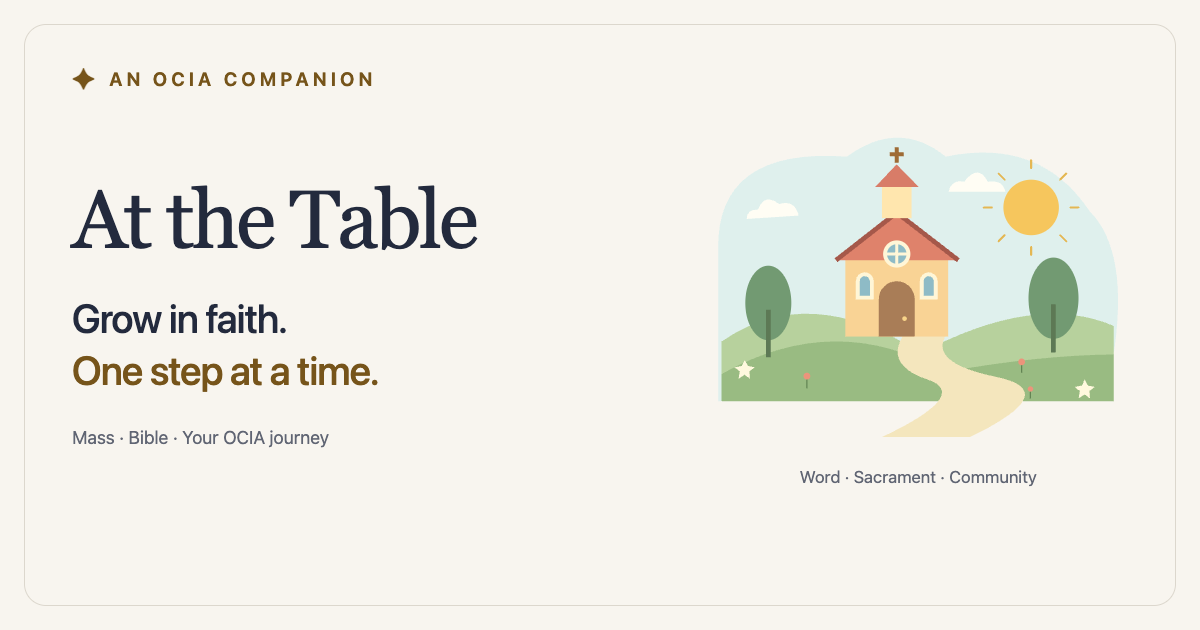
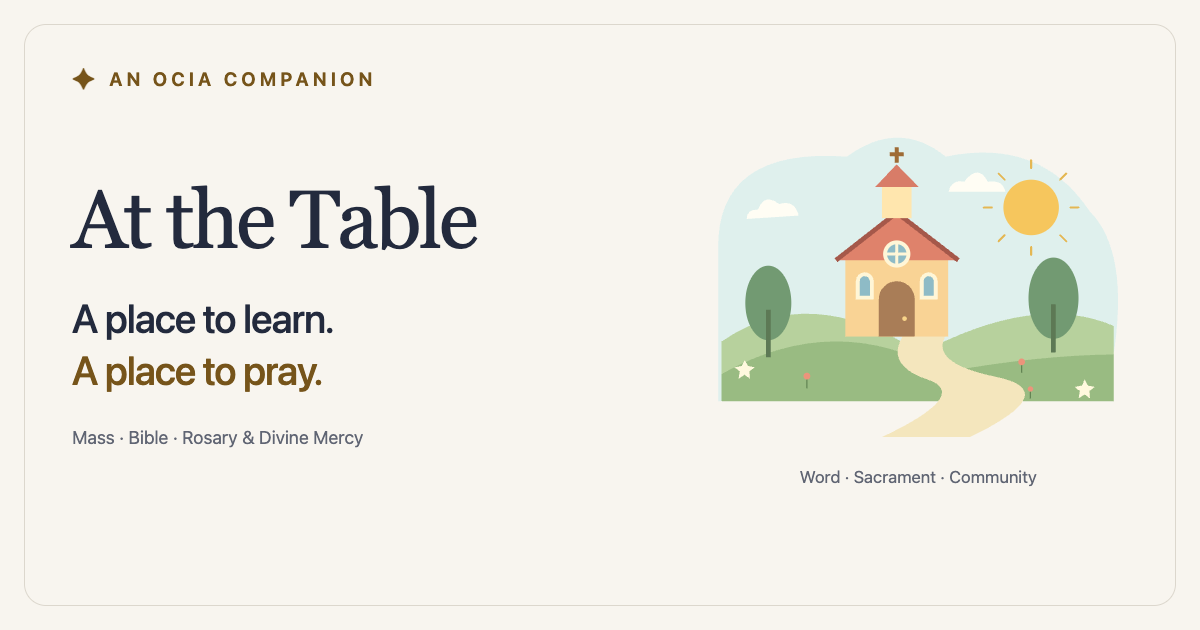
Unify OCIA learning and prayer with a new Learn and Pray landing

Changed region(s): [[0.0617, 0.573, 0.3083, 0.6333], [0.0617, 0.4825, 0.2775, 0.5429], [0.1542, 0.6635, 0.3083, 0.7238]]

diff --git a/apps/at-the-table/src/App.tsx b/apps/at-the-table/src/App.tsx
@@ -1,3 +1,6 @@
+import Prayer from './prayer/Prayer';
+import PrayerHub from './prayer/PrayerHub';
+import type {Devotion} from './prayer/Prayer';
 import BibleLesson from './bible/BibleLesson';
 import LessonHub from './bible/LessonHub';
 import {useEffect,useRef,useState} from 'react';
@@ -27,13 +30,14 @@ export default function App(){
  const [quiz,setQuiz]=useState(initial.quiz);const [answers,setAnswers]=useState<Record<number,number>>({});const [notice,setNotice]=useState('');
  const heading=useRef<HTMLHeadingElement>(null);const first=useRef(true);
  const unit=units[unitIndex];const lesson=unit.lessons[lessonIndex];
- useEffect(()=>{document.title=page==='mass'?`${quiz?t('Check your understanding'):lesson.title} · At the Table`:page==='bible'?'Books of the Bible · At the Table':page==='lessons'?'OCIA lessons · At the Table':'At the Table: An OCIA Companion';},[page,quiz,lesson.title,t]);
+ useEffect(()=>{document.title=page==='mass'?`${quiz?t('Check your understanding'):lesson.title} · At the Table`:page==='prayer'?'Prayer · At the Table':page==='bible'?'Books of the Bible · At the Table':page==='lessons'?'OCIA lessons · At the Table':'At the Table: An OCIA Companion';},[page,quiz,lesson.title,t]);
  useEffect(()=>{try{localStorage.setItem(key,JSON.stringify(saved));setStorageWarning(false)}catch{setStorageWarning(true)}},[saved]);
  useEffect(()=>{const handler=()=>{if(location.hash==='#main')return;const route=readRoute();setPage(route.page);setUnitIndex(route.unitIndex);setLessonIndex(route.lessonIndex);setQuiz(route.quiz);setAnswers({});};window.addEventListener('hashchange',handler);return()=>window.removeEventListener('hashchange',handler)},[]);
  useEffect(()=>{if(page==='mass'&&!quiz)setSaved(s=>s.lastLesson===lesson.id?s:{...s,lastLesson:lesson.id});},[page,quiz,lesson.id]);
  useEffect(()=>{window.speechSynthesis?.cancel();if(first.current){first.current=false;return;}window.scrollTo(0,0);heading.current?.focus({preventScroll:true});},[page,unitIndex,lessonIndex,quiz]);
  useEffect(()=>()=>window.speechSynthesis?.cancel(),[]);
  function go(next:Page){setPage(next);location.hash=next;setNotice('')}
+ function openPrayer(devotion:Devotion){setPage('prayer');location.hash=`prayer/${devotion}`;setNotice('')}
  function openLesson(u:number,i=0){setUnitIndex(u);setLessonIndex(i);setQuiz(false);setAnswers({});setPage('mass');location.hash=`mass/${units[u].lessons[i].id}`;setNotice('')}
  function next(){if(lessonIndex<unit.lessons.length-1)openLesson(unitIndex,lessonIndex+1);else {setQuiz(true);setAnswers({});location.hash=`check/${unit.id}`}}
  function toggleDone(){setSaved(s=>({...s,done:s.done.includes(lesson.id)?s.done.filter(id=>id!==lesson.id):[...s.done,lesson.id]}))}
@@ -41,14 +45,16 @@ export default function App(){
  const nextUnread=all.find(l=>!saved.done.includes(l.id));
  const resume=all.find(l=>l.id===saved.lastLesson)||nextUnread||all[0];
  const resumeUnit=units.findIndex(u=>u.lessons.includes(resume));
- return <><a className="skip" href="#main" onClick={e=>{e.preventDefault();document.getElementById('main')?.focus()}}>{t("Skip to content")}</a><header><button className="brand" onClick={()=>go('home')} aria-label={t("At the Table home")}><BrandMark/><span>At the Table<small>{t("AN OCIA COMPANION")}</small></span></button><nav aria-label={t("Main navigation")}>{(['home','lessons','map','journey'] as Page[]).map(p=><button key={p} aria-label={p==='journey'?t('OCIA & help'):undefined} aria-current={page===p||(page==='mass'&&p==='map')||(page==='bible'&&p==='lessons')?'page':undefined} onClick={()=>go(p)}>{({home:t('Home'),lessons:t('Lessons'),bible:t('Books of the Bible'),map:t('Mass map'),mass:t('Explore the Mass'),journey:t('OCIA & help'),resources:t('Resources'),visit:t('Your first Mass'),prayers:t('Prayer quick reference')})[p]}</button>)}</nav><label className="language-picker"><span className="sr-only">Language / Idioma</span><select aria-label="Language / Idioma" value={locale} onChange={e=>{setLocale(e.target.value as 'en'|'es'|'pl'|'tl');setQuery('')}}><option value="en" lang="en">English</option><option value="es" lang="es">Español</option><option value="pl" lang="pl">Polski</option><option value="tl" lang="tl">Tagalog</option></select></label><button className="global-theme-toggle" aria-label={theme==='light'?t('Use night prayer mode'):t('Use light reading mode')} onClick={toggleTheme}><Icon name={theme==='light'?'moon':'sun'}/><span>{theme==='light'?t('Night mode'):t('Light mode')}</span></button><span className="header-label">{t("FAITH SEEKING UNDERSTANDING")}</span></header>
+ return <><a className="skip" href="#main" onClick={e=>{e.preventDefault();document.getElementById('main')?.focus()}}>{t("Skip to content")}</a><header><button className="brand" onClick={()=>go('home')} aria-label={t("At the Table home")}><BrandMark/><span>At the Table<small>{t("AN OCIA COMPANION")}</small></span></button><nav aria-label={t("Main navigation")}>{(['home','lessons','prayer','map','journey'] as Page[]).map(p=><button key={p} aria-label={p==='journey'?t('OCIA & help'):undefined} aria-current={page===p||(page==='mass'&&p==='map')||(page==='bible'&&p==='lessons')?'page':undefined} onClick={()=>go(p)}>{({home:t('Home'),prayer:t('Pray'),lessons:t('Lessons'),bible:t('Books of the Bible'),map:t('Mass map'),mass:t('Explore the Mass'),journey:t('OCIA & help'),resources:t('Resources'),visit:t('Your first Mass'),prayers:t('Prayer quick reference')})[p]}</button>)}</nav><label className="language-picker"><span className="sr-only">Language / Idioma</span><select aria-label="Language / Idioma" value={locale} onChange={e=>{setLocale(e.target.value as 'en'|'es'|'pl'|'tl');setQuery('')}}><option value="en" lang="en">English</option><option value="es" lang="es">Español</option><option value="pl" lang="pl">Polski</option><option value="tl" lang="tl">Tagalog</option></select></label><button className="global-theme-toggle" aria-label={theme==='light'?t('Use night prayer mode'):t('Use light reading mode')} onClick={toggleTheme}><Icon name={theme==='light'?'moon':'sun'}/><span>{theme==='light'?t('Night mode'):t('Light mode')}</span></button><span className="header-label">{t("FAITH SEEKING UNDERSTANDING")}</span></header>
  <main id="main" tabIndex={-1}>{storageWarning&&<p className="warning">{t("Browser storage is unavailable. Your lesson progress will last for this visit only.")}</p>}
- {page==='home'&&<><section className="hero"><div className="hero-copy"><p className="eyebrow"><span/> {t("A GUIDE FOR ADULTS")}</p><h1 ref={heading} tabIndex={-1}>{t("Grow in faith,")}<br/><em>{t("one step at a time.")}</em></h1><p className="lead">{t("Explore the Mass, discover the Bible, and find your place in the OCIA journey. Choose a lesson and learn with your parish.")}</p><div className="actions"><button className="primary" onClick={()=>go('lessons')}>{t('Explore lessons')} <span>→</span></button><button className="text-button" onClick={()=>go('visit')}>{t('Your first Mass')} <span>→</span></button></div><div className="hero-meta"><span>{t("Mass · Bible · OCIA")}</span><i/><span>{t("Scripture & tradition")}</span><i/><span>{t("At your own pace")}</span></div></div><div className="hero-art"><div className="church-scene"><div className="church-sky" aria-hidden="true"/><img className="church-hero" src={theme==='dark'?churchNight:churchDay} alt={t("A welcoming church with a cross and a path to its doors")} width={1536} height={1024} fetchPriority="high"/></div><div className="art-caption"><span>{t("A PLACE TO ENCOUNTER CHRIST")}</span><span>{t("Word · Sacrament · Community")}</span></div><span className="vertical-label">{t("GATHERED IN FAITH. SENT IN LOVE.")}</span></div></section>
+ {page==='home'&&<><section className="hero ocia-landing"><div className="hero-copy"><p className="eyebrow"><span/> {t("A GUIDE FOR ADULTS")}</p><h1 ref={heading} tabIndex={-1}>{t("A place to learn.")}<br/><em>{t("A place to pray.")}</em></h1><p className="lead">{t("Your OCIA companion for understanding the faith and making room for prayer. Choose where you would like to begin.")}</p><div className="actions"><button className="primary" onClick={()=>go('lessons')}>{t('Explore lessons')} <span>→</span></button><button className="text-button" onClick={()=>openPrayer('rosary')}>{t('Enter prayer')} <span>→</span></button></div><div className="hero-meta"><span>{t("Mass · Bible · OCIA")}</span><i/><span>{t("Scripture & tradition")}</span><i/><span>{t("At your own pace")}</span></div></div><div className="hero-art"><div className="church-scene"><div className="church-sky" aria-hidden="true"/><img className="church-hero" src={theme==='dark'?churchNight:churchDay} alt={t("A welcoming church with a cross and a path to its doors")} width={1536} height={1024} fetchPriority="high"/></div><div className="art-caption"><span>{t("A PLACE TO ENCOUNTER CHRIST")}</span><span>{t("Word · Sacrament · Community")}</span></div><span className="vertical-label">{t("GATHERED IN FAITH. SENT IN LOVE.")}</span></div></section>
  <LessonHub onNavigate={go} compact/>
+ <PrayerHub onOpen={openPrayer}/>
  {saved.lastLesson&&<section className="resume-card"><div><p className="eyebrow">{t('YOUR LAST LESSON')}</p><h2>{resume.title}</h2><p>{units[resumeUnit].title} · {t('Lesson')} {units[resumeUnit].lessons.indexOf(resume)+1} {t('of')} {units[resumeUnit].lessons.length}</p></div><button className="primary" onClick={()=>openLesson(resumeUnit,units[resumeUnit].lessons.indexOf(resume))}>{t('Continue reading')} →</button></section>}
  <section className="home-shortcuts" aria-label={t('Quick guides')}><button onClick={()=>go('journey')}><span>{t('About OCIA')}</span><small>{t('Learn about becoming Catholic')}</small><Icon name="arrow"/></button><button onClick={()=>go('prayers')}><span>{t('Prayer quick reference')}</span><small>{t('Find familiar prayers and responses')}</small><Icon name="arrow"/></button></section>
  </>}
  {page==='lessons'&&<LessonHub onNavigate={go} headingRef={heading}/>}
+ {page==='prayer'&&<Prayer headingRef={heading}/>}
  {page==='bible'&&<BibleLesson headingRef={heading}/>}
  {page==='map'&&<section className="page mass-map"><div className="page-heading"><p className="eyebrow">{t("YOUR GUIDE TO THE MASS")}</p><h1 ref={heading} tabIndex={-1}>{t("Four parts. One celebration.")}</h1><p>{t("Choose a part to explore. Each lesson explains what happens, what it means, and how to participate.")}</p></div><div className="map-progress"><span>{saved.done.length} {t("of")} {all.length} {t("lessons explored")}</span><progress value={saved.done.length} max={all.length} aria-label={t("Lessons reviewed")}/></div><div className="map-search"><label htmlFor="search">{t("Find a lesson")}</label><input id="search" type="search" value={query} onChange={e=>setQuery(e.target.value)} placeholder={t('Try “Communion”')}/>{query.trim()&&<div className="search-results"><p role="status">{filtered.length} {t("results")}</p>{filtered.map(({l,ui,li,unit})=><button key={l.id} onClick={()=>{openLesson(ui,li);setQuery('')}}><span>{l.title}</span><small>{unit}</small><Icon name="arrow"/></button>)}{!filtered.length&&<><p>{t('Try a shorter phrase, such as Amen, Communion, or Gloria.')}</p><button onClick={()=>setQuery('')}>{t('Clear search')}</button></>}</div>}</div><div className="map-grid">{units.map((u,i)=><button className={`map-card map-${i}`} key={u.id} onClick={()=>openLesson(i)}><span className="map-number">{i+1}</span><Illustration kind={(['church','bible','chalice','sun'] as Art[])[i]} alt={[t('A welcoming church'),t('An open Bible'),t('A chalice and bread'),t('Sunlight shining outward')][i]}/><span className="eyebrow">{u.verb}</span><h2>{u.title}</h2><p>{[t('We gather, pray, and prepare our hearts.'),t('We listen to Scripture and respond in faith.'),t('We give thanks and encounter Christ in the Eucharist.'),t('We go out to live the Gospel.')][i]}</p><span className="map-bottom">{locale==='pl'?`Liczba lekcji: ${u.lessons.length}`:<>{u.lessons.length} {t("lessons")}</>} <span className="section-progress">{saved.done.filter(id=>u.lessons.some(l=>l.id===id)).length}/{u.lessons.length} {t('explored')}</span><strong>{t("Explore →")}</strong></span></button>)}</div><p className="map-hint">{t("No rush. You can revisit any lesson, anytime.")}</p></section>}
  {page==='mass'&&<section className="study page"><button className="text-button back-map" onClick={()=>go('map')}>{t("← Back to Mass map")}</button>{quiz&&<div className="page-heading"><p className="eyebrow">{t("PART")} {unitIndex+1} {t("OF 4 ·")} {unit.verb}</p><h1 ref={heading} tabIndex={-1}>{quiz?t('Check your understanding'):unit.title}</h1><p>{quiz?t('Take your time. You can try again.'):`${lessonIndex+1} / ${unit.lessons.length}`}</p></div>}<div className="study-layout">

diff --git a/apps/at-the-table/src/prayer/prayer.css b/apps/at-the-table/src/prayer/prayer.css
@@ -1,0 +1,8 @@
+body.themed-app .ocia-landing{min-height:0;padding-top:40px;padding-bottom:35px;gap:35px}.ocia-landing .hero-copy h1{font-size:clamp(35px,4vw,52px)}.ocia-landing .hero-art{max-width:340px}.ocia-landing .church-scene{max-height:260px;overflow:hidden;border-radius:22px}.ocia-landing .hero-meta{margin-top:18px}.ocia-landing .lead{font-size:15px}.lesson-hub.compact{padding-bottom:35px}.lesson-hub.compact .lesson-hub-heading{padding-top:15px;border-top:1px solid var(--read-line)}.lesson-hub.compact .lesson-hub-card .illustration{height:95px}.lesson-hub.compact .lesson-hub-card{padding:24px}.lesson-hub.compact .lesson-hub-card h2{font-size:25px}.lesson-hub.compact .lesson-hub-card p{margin-bottom:15px}
+.prayer-hub{max-width:1200px;margin:0 auto 45px;padding:32px 6% 38px;background:var(--read-wash);border-top:1px solid var(--read-sand-line);border-bottom:1px solid var(--read-sand-line)}.prayer-hub-heading h2{font:32px/1.3 var(--read-serif);color:var(--read-ink);margin:0}.prayer-hub-heading p:not(.eyebrow){font-size:14px;color:var(--read-muted);margin:10px 0 25px}.prayer-hub-heading .eyebrow{color:var(--read-gold)}.prayer-hub-grid{display:grid;grid-template-columns:1fr 1fr;gap:20px}.prayer-hub-card{display:grid;grid-template-columns:95px 1fr;align-items:center;gap:20px;text-align:left;border:1px solid var(--read-line);border-radius:16px;background:var(--read-surface);color:var(--read-ink);padding:24px;min-width:0}.prayer-hub-card:hover{border-color:var(--read-gold)}.prayer-hub-card .illustration{width:95px;height:120px}.prayer-hub-card h3{font:26px/1.3 var(--read-serif);margin:0}.prayer-hub-card .eyebrow{font-size:9px;margin-bottom:9px}.prayer-hub-card p:not(.eyebrow){font-size:13px;line-height:1.8;color:var(--read-muted);margin:12px 0}.prayer-hub-card strong{font-size:12px;color:var(--read-gold)}
+.prayer-space{max-width:1600px;margin:auto;padding:18px 24px 0;display:flex;flex-direction:column;min-width:0;gap:12px}.prayer-space-heading{display:flex;align-items:center;justify-content:space-between;gap:20px}.prayer-space-heading .eyebrow{font-size:9px;margin:0 0 4px;color:var(--read-gold)}.prayer-space-heading h1{font:30px/1.2 var(--read-serif);color:var(--read-ink);margin:0}.prayer-fullscreen-link{font-size:11px;color:var(--read-gold);white-space:nowrap}.prayer-language-note{font-size:11px;color:var(--read-muted);margin:0}body.themed-app .prayer-tabs{display:flex;flex-wrap:wrap;gap:8px;margin:0}body.themed-app .prayer-tabs button{background:var(--read-soft);color:var(--read-ink);border:1px solid var(--read-line);border-radius:10px;min-height:44px;padding:10px 20px;font-size:12px}body.themed-app .prayer-tabs button[aria-current]{background:var(--read-action);color:var(--read-on-action)}.prayer-frame{display:block;flex:1;width:100%;min-height:0;border:1px solid var(--read-line);border-radius:14px;background:#17130f}
+@media(max-width:850px){.prayer-hub-grid{grid-template-columns:1fr}.ocia-landing .hero-art{max-width:260px}.prayer-space{padding:12px 16px 0}.prayer-space-heading h1{font-size:25px}}
+@media(max-width:600px){body.themed-app .ocia-landing{padding-top:28px;padding-bottom:24px;gap:15px}.ocia-landing .hero-art{display:none}.ocia-landing .hero-copy h1{font-size:35px;margin-bottom:18px}.ocia-landing .hero-meta{flex-wrap:wrap}.prayer-hub{padding:25px 6%}.prayer-hub-card{grid-template-columns:65px 1fr;padding:18px;gap:15px}.prayer-hub-card .illustration{width:65px;height:85px}.prayer-hub-card h3{font-size:24px}.prayer-hub-heading h2{font-size:28px}.prayer-space{padding:10px 10px 0;gap:8px}.prayer-space-heading{gap:8px}.prayer-space-heading h1{font-size:22px}.prayer-space-heading .eyebrow{font-size:7px;letter-spacing:1px}.prayer-fullscreen-link{font-size:9px}body.themed-app .prayer-tabs{gap:5px}body.themed-app .prayer-tabs button{padding:8px 10px;font-size:10px;flex:1}.prayer-frame{border-radius:10px}body.themed-app #root>header>nav{flex-wrap:wrap;gap:2px}body.themed-app #root>header>nav button{padding:10px 8px;font-size:10px}}
+
+body.themed-app .prayer-tabs{order:0;width:100%;flex-shrink:0;justify-content:flex-start}.prayer-space-heading{flex-shrink:0}.prayer-frame{min-height:450px}
+@media(max-width:600px){body.themed-app #root>header>nav button{font-size:10px;padding:10px 6px}.prayer-space-heading h1{font-size:21px}.prayer-space-heading .eyebrow{max-width:170px}.prayer-space-heading .prayer-fullscreen-link{white-space:normal;max-width:70px;text-align:right}}

diff --git a/apps/at-the-table/src/SiteFooter.tsx b/apps/at-the-table/src/SiteFooter.tsx
@@ -4,7 +4,7 @@ import type {Page} from './study';
 export default function SiteFooter({onNavigate}:{onNavigate:(page:Page)=>void}){
  const {t}=useLanguage();
  return <footer className="site-footer"><svg className="footer-flourish" viewBox="0 0 1200 80" preserveAspectRatio="none" aria-hidden="true"><path d="M0 65Q180 20 360 55T720 52T1200 65" fill="none" stroke="currentColor" strokeWidth="1"/><path d="M0 75Q230 38 460 67T920 65T1200 74" fill="none" stroke="currentColor" strokeWidth="1"/><path d="M600 10v25m-9-17h18M570 48h60m-52 0v13m44-13v13" fill="none" stroke="currentColor" strokeWidth="2" strokeLinecap="round"/><path d="M545 50q-18-20-35-10m27 2q-4-17-16-21m134 29q18-20 35-10m-27 2q4-17 16-21" fill="none" stroke="currentColor" strokeWidth="1.5" strokeLinecap="round"/></svg>
- <div className="footer-content"><div className="footer-identity"><div className="footer-brand"><BrandMark/><strong>At the Table</strong></div><p>{t('A space to grow in faith, made for adults.')}</p><span>{t('Learn with your parish. Explore at your own pace.')}</span></div><nav className="footer-links" aria-label={t('Explore the Mass')}><h2>{t('Explore')}</h2><a href="#lessons">{t('All lessons')}</a><a href="#bible">{t('Books of the Bible')}</a><a href="#map">{t('Mass map')}</a><a href="#visit">{t('Your first Mass')}</a><a href="#prayers">{t('Prayer quick reference')}</a></nav><nav className="footer-links" aria-label={t('Guidance and resources')}><h2>{t('Keep learning')}</h2><a href="#journey">{t('About OCIA')}</a><button onClick={()=>onNavigate('resources')}>{t('Sources & guidance')} →</button><a href="../">{t('Learning with children? Explore Mass Adventure')} ↗</a><a href="../rosary/">{t('Pray the Rosary & Divine Mercy Chaplet')} ↗</a></nav></div>
+ <div className="footer-content"><div className="footer-identity"><div className="footer-brand"><BrandMark/><strong>At the Table</strong></div><p>{t('A space to grow in faith, made for adults.')}</p><span>{t('Learn with your parish. Explore at your own pace.')}</span></div><nav className="footer-links" aria-label={t('Explore the Mass')}><h2>{t('Explore')}</h2><a href="#lessons">{t('All lessons')}</a><a href="#bible">{t('Books of the Bible')}</a><a href="#prayer">{t('Guided prayer')}</a><a href="#map">{t('Mass map')}</a><a href="#visit">{t('Your first Mass')}</a><a href="#prayers">{t('Prayer quick reference')}</a></nav><nav className="footer-links" aria-label={t('Guidance and resources')}><h2>{t('Keep learning')}</h2><a href="#journey">{t('About OCIA')}</a><button onClick={()=>onNavigate('resources')}>{t('Sources & guidance')} →</button><a href="../">{t('Learning with children? Explore Mass Adventure')} ↗</a><a href="#prayer/rosary">{t('Pray the Rosary & Divine Mercy Chaplet')} →</a></nav></div>
  <div className="footer-bottom"><span className="creator-credit">{t('Created by Kenny & Edith Santiago')}</span><p>{t('No account required. Lesson progress stays on this browser.')}</p></div>
  </footer>;
 }

diff --git a/apps/rosary/src/styles.css b/apps/rosary/src/styles.css
@@ -181,3 +181,10 @@
 @media(max-width:1100px){.rosary-footer-body{grid-template-columns:1fr 1fr}.rosary-footer-identity{grid-column:1/-1}.rosary-footer-identity>span br{display:none}}
 @media(max-width:850px){.rosary-footer{margin:28px 24px 20px;padding:45px 24px 0}.rosary-footer-body{gap:24px}}
 @media(max-width:600px){.rosary-footer{margin:25px 18px 18px;padding:42px 22px 0}.rosary-footer-body{grid-template-columns:1fr;gap:26px;padding-bottom:26px}.rosary-footer-identity{grid-column:auto}.rosary-footer-brand strong{font-size:31px}.rosary-footer-bottom{display:block;font-size:10px}.rosary-footer-bottom p{margin-top:7px}.rosary-footer-prayers{display:grid;grid-template-columns:1fr 1fr;column-gap:16px}.rosary-footer-prayers h2{grid-column:1/-1}.rosary-footer-prayers a{font-size:11px}.rosary-footer-flourish{height:44px}}
+
+/* At the Table provides the shared navigation and footer in the integrated prayer view. */
+.embedded.app-shell{display:block;min-height:100dvh}.embedded .sidebar,.embedded .topbar,.embedded .rosary-footer{display:none}.embedded .page-content{padding:22px 24px}.embedded.meditating .session-content{height:100dvh;padding:14px 18px}.embedded .page-heading{margin-bottom:20px}.embedded .page-heading h1{font-size:32px}.embedded .setup-grid .sacred-media img,.embedded .setup-grid .sacred-media video{height:clamp(220px,45dvh,400px)}
+@media(max-width:850px){.embedded.meditating .contents{top:12px}.embedded.meditating .session-content{height:100dvh;padding:10px 12px}.embedded .page-content{padding:20px 16px}.embedded .page-heading h1{font-size:28px}}
+@media(max-height:600px) and (max-width:850px){.embedded.meditating .session-heading{min-height:30px}.embedded.meditating .session-heading h1{font-size:18px}.embedded.meditating .bead-panel{padding:4px 6px}.embedded.meditating .bead-panel .eyebrow{font-size:7px!important}.embedded.meditating .beads{min-height:28px}.embedded.meditating .beads i{width:22px;height:22px;flex-basis:22px}.embedded.meditating .beads i.large{width:26px;height:26px;flex-basis:26px}.embedded.meditating .reader{padding:10px 14px}.embedded.meditating .reader h2{font-size:18px}.embedded.meditating .reading-panel>.preferences{padding-bottom:5px}.embedded.meditating .audio-controls{padding:6px 10px}}
+
+@media(max-height:600px) and (max-width:850px){.embedded.meditating .session-heading{display:grid;grid-template-columns:minmax(0,1fr) auto;gap:8px;padding-right:138px;min-height:38px}.embedded.meditating .session-heading h1{display:none}.embedded.meditating .session-heading .secondary{margin-right:0;padding:7px;font-size:9px;min-height:32px}.embedded.meditating .session-heading .eyebrow{font-size:7px!important}.embedded.meditating .contents{width:130px;top:10px;right:12px}.embedded.meditating .contents summary{padding:10px;font-size:10px}.embedded.meditating .prayer-progress>div{font-size:8px}.embedded.meditating .meditation-grid{grid-template-rows:minmax(0,1fr) minmax(0,1fr)}}

diff --git a/apps/at-the-table/index.html b/apps/at-the-table/index.html
@@ -8,23 +8,23 @@
   <link rel="icon" type="image/svg+xml" href="%BASE_URL%favicon.svg" sizes="any"/>
   <link rel="apple-touch-icon" href="%BASE_URL%apple-touch-icon.png" sizes="180x180"/>
   <title>At the Table: An OCIA Companion</title>
-  <meta name="description" content="Grow in faith, one step at a time. Explore the Mass, all 73 books of the Catholic Bible, interactive activities, and your OCIA journey."/>
+  <meta name="description" content="Learn and pray with an OCIA companion: Mass lessons, all 73 books of the Catholic Bible, the Rosary, and Divine Mercy."/>
   <link rel="canonical" href="https://ksantiagobah.github.io/mass-adventure/at-the-table/"/>
   <meta property="og:type" content="website"/>
   <meta property="og:site_name" content="At the Table"/>
   <meta property="og:title" content="At the Table: An OCIA Companion"/>
-  <meta property="og:description" content="Explore the Mass, the Catholic Bible, and your OCIA journey with illustrated lessons and interactive activities."/>
+  <meta property="og:description" content="A place to learn. A place to pray. Explore the Mass, Bible, Rosary, Divine Mercy, and your OCIA journey."/>
   <meta property="og:url" content="https://ksantiagobah.github.io/mass-adventure/at-the-table/"/>
   <meta property="og:image" content="https://ksantiagobah.github.io/mass-adventure/at-the-table/share-card.png"/>
   <meta property="og:image:type" content="image/png"/>
   <meta property="og:image:width" content="1200"/>
   <meta property="og:image:height" content="630"/>
-  <meta property="og:image:alt" content="At the Table: Grow in faith, one step at a time, beside an illustrated church."/>
+  <meta property="og:image:alt" content="At the Table: A place to learn and pray, beside an illustrated church."/>
   <meta name="twitter:card" content="summary_large_image"/>
   <meta name="twitter:title" content="At the Table: An OCIA Companion"/>
-  <meta name="twitter:description" content="Explore the Mass, the Catholic Bible, and your OCIA journey."/>
+  <meta name="twitter:description" content="A place to learn. A place to pray. Mass, Bible, Rosary, Divine Mercy, and OCIA."/>
   <meta name="twitter:image" content="https://ksantiagobah.github.io/mass-adventure/at-the-table/share-card.png"/>
-  <meta name="twitter:image:alt" content="At the Table: Grow in faith, one step at a time, beside an illustrated church."/>
+  <meta name="twitter:image:alt" content="At the Table: A place to learn and pray, beside an illustrated church."/>
 </head>
 <body><div id="root"></div><script type="module" src="/src/main.tsx"></script></body>
 </html>

diff --git a/apps/at-the-table/src/prayer/Prayer.tsx b/apps/at-the-table/src/prayer/Prayer.tsx
@@ -1,0 +1,14 @@
+import {useEffect,useState} from 'react';
+import type {RefObject} from 'react';
+import {useLanguage} from '../Language';
+import './prayer.css';
+export type Devotion='rosary'|'chaplet'|'mysteries'|'prayers';
+const destinations=[{id:'rosary',label:'The Rosary'},{id:'chaplet',label:'Divine Mercy'},{id:'mysteries',label:'Mysteries'},{id:'prayers',label:'Prayer library'}] as const;
+function devotionFromHash():Devotion{return destinations.find(d=>d.id===location.hash.split('/')[1])?.id??'rosary'}
+export default function Prayer({headingRef}:{headingRef:RefObject<HTMLHeadingElement|null>}){
+ const {t,locale}=useLanguage();const [devotion,setDevotion]=useState(devotionFromHash);const [headerHeight,setHeaderHeight]=useState(100);
+ useEffect(()=>{const onHash=()=>setDevotion(devotionFromHash());window.addEventListener('hashchange',onHash);const header=document.querySelector('#root>header');const measure=()=>setHeaderHeight(header?.getBoundingClientRect().height??100);measure();const observer=new ResizeObserver(measure);if(header)observer.observe(header);return()=>{window.removeEventListener('hashchange',onHash);observer.disconnect()}},[]);
+ return <section className="prayer-space" style={{height:`max(650px, calc(100dvh - ${headerHeight}px - 16px))`}}><div className="prayer-space-heading"><div><p className="eyebrow">{t('PRAY · A QUIET MOMENT WITH GOD')}</p><h1 ref={headingRef} tabIndex={-1}>{t('Make room for prayer.')}</h1></div><a className="prayer-fullscreen-link" href={`../rosary/#${devotion}`} target="_blank" rel="noreferrer">{t('Open full screen')} ↗</a></div>{locale!=='en'&&<p className="prayer-language-note">{t('Guided prayers and narration are currently in English.')}</p>}<nav className="prayer-tabs" aria-label={t('Choose a prayer')}>
+ {destinations.map(d=><button key={d.id} aria-current={devotion===d.id?'page':undefined} onClick={()=>{setDevotion(d.id);location.hash=`prayer/${d.id}`}}>{t(d.label)}</button>)}
+ </nav><iframe key={devotion} className="prayer-frame" src={`../rosary/?embedded=1#${devotion}`} title={t('Guided prayer')+': '+t(destinations.find(d=>d.id===devotion)!.label)} allow="fullscreen"/></section>
+}

diff --git a/apps/at-the-table/src/bible/LessonHub.tsx b/apps/at-the-table/src/bible/LessonHub.tsx
@@ -6,7 +6,7 @@ export default function LessonHub({onNavigate,headingRef,compact=false}:{onNavig
  const {t}=useLanguage();
  const lessons=[{page:'map' as Page,title:t('The Catholic Mass'),detail:t('Understand the celebration, its prayers, and your part in it.'),meta:t('28 guided lessons'),art:'church' as const,label:t('Explore the Mass')},{page:'bible' as Page,title:t('Books of the Bible'),detail:t('Explore Scripture’s library through book discoveries and hands-on activities.'),meta:t('73 books · 4 activities'),art:'bible' as const,label:t('Explore the Bible')},{page:'journey' as Page,title:t('The OCIA journey'),detail:t('Learn about Christian initiation and the path you share with your parish.'),meta:t('Guidance & common questions'),art:'sun' as const,label:t('Explore OCIA')}];
  return <section className={`lesson-hub ${compact?'compact':'page'}`}>
-  {compact?<div className="lesson-hub-heading"><p className="eyebrow">{t('LEARN WITH YOUR PARISH')}</p><h2>{t('Choose a lesson. Follow your curiosity.')}</h2></div>:<div className="page-heading"><p className="eyebrow">{t('YOUR OCIA LEARNING SPACE')}</p><h1 ref={headingRef} tabIndex={-1}>{t('Faith, one lesson at a time.')}</h1><p>{t('Choose a subject to explore. Each has its own page, and you can return whenever you like.')}</p></div>}
+  {compact?<div className="lesson-hub-heading"><p className="eyebrow">{t('LEARN · UNDERSTAND AND EXPLORE')}</p><h2>{t('Choose your learning path.')}</h2></div>:<div className="page-heading"><p className="eyebrow">{t('YOUR OCIA LEARNING SPACE')}</p><h1 ref={headingRef} tabIndex={-1}>{t('Faith, one lesson at a time.')}</h1><p>{t('Choose a subject to explore. Each has its own page, and you can return whenever you like.')}</p></div>}
   <div className="lesson-hub-grid">{lessons.map((lesson,index)=><button className="lesson-hub-card" key={lesson.page} onClick={()=>onNavigate(lesson.page)}><span className="lesson-hub-number">0{index+1}</span><Illustration kind={lesson.art} alt={lesson.title}/><span className="eyebrow">{lesson.meta}</span><h2>{lesson.title}</h2><p>{lesson.detail}</p><strong>{lesson.label} →</strong></button>)}</div>
  </section>;
 }

diff --git a/apps/rosary/src/App.tsx b/apps/rosary/src/App.tsx
@@ -16,6 +16,7 @@ import { Player } from './Player';
 import { Media } from './Media';
 import { readSaved, save } from './storage';
 
+const embedded = new URLSearchParams(location.search).get('embedded') === '1';
 type Page = 'today' | 'rosary' | 'chaplet' | 'mysteries' | 'prayers';
 const pages: { id: Page; label: string; icon: string }[] = [{ id: 'today', label: 'Today', icon: '☀' }, { id: 'rosary', label: 'The Rosary', icon: '◎' }, { id: 'chaplet', label: 'Divine Mercy', icon: '✧' }, { id: 'mysteries', label: 'Mysteries', icon: '▧' }, { id: 'prayers', label: 'Prayers', icon: '✝' }];
 const pageFromHash = (): Page => pages.find(p => p.id === location.hash.slice(1).split('/')[0])?.id ?? 'today';
@@ -76,7 +77,7 @@ export default function App() {
     const recording = recordingForVoice(id, voice);
     return <div className="reading-panel">{settings}<Player key={`${id}:${voice}`} activeKey={`${id}:${voice}`} recording={recording} timing={timingForNarration(id, recording?.transcript, voice)} title={title} text={text} auto={false} playing={playing} setPlaying={setPlaying} fontSize={fontSize}/></div>;
   }
-  return <div className={`app-shell ${(inSession && (page === 'rosary' || page === 'chaplet')) ? 'meditating' : ''}`}>
+  return <div className={`app-shell ${embedded ? 'embedded' : ''} ${(inSession && (page === 'rosary' || page === 'chaplet')) ? 'meditating' : ''}`}>
     <a href="#main" className="skip-link">Skip to content</a>
     <aside className="sidebar"><a className="brand" href="#today" onClick={e => { e.preventDefault(); navigate('today'); }}><span className="brand-mark">✝</span><span>Rosary<small>A quiet space for prayer</small></span></a>
       <nav aria-label="Main navigation">{pages.map(p => <a key={p.id} href={`#${p.id}`} aria-current={page === p.id ? 'page' : undefined} onClick={e => { e.preventDefault(); navigate(p.id); }}><span aria-hidden="true">{p.icon}</span>{p.label}</a>)}</nav>

diff --git a/apps/at-the-table/src/study.ts b/apps/at-the-table/src/study.ts
@@ -5,14 +5,14 @@ import {polishSpoken} from './polishSpoken';
 import {tagalogSpoken} from './tagalogSpoken';
 import {prayerScript} from './reading';
 import type {Locale} from './Language';
-export type Page='lessons'|'bible'|'home'|'map'|'mass'|'journey'|'resources'|'visit'|'prayers';
+export type Page='prayer'|'lessons'|'bible'|'home'|'map'|'mass'|'journey'|'resources'|'visit'|'prayers';
 export type Route={page:Page;unitIndex:number;lessonIndex:number;quiz:boolean};
 export function readRoute(hash=location.hash):Route {
  const [page,id]=hash.slice(1).split('/');
  const base:Route={page:'home',unitIndex:0,lessonIndex:0,quiz:false};
  if(page==='mass'&&id){for(const [ui,unit] of units.entries()){const li=unit.lessons.findIndex(l=>l.id===id);if(li>=0)return {...base,page:'mass',unitIndex:ui,lessonIndex:li};}return {...base,page:'map'};}
  if(page==='check'){const ui=units.findIndex(u=>u.id===id);return ui>=0?{...base,page:'mass',unitIndex:ui,lessonIndex:units[ui].lessons.length-1,quiz:true}:{...base,page:'map'};}
- return ['home','lessons','bible','map','mass','journey','resources','visit','prayers'].includes(page)?{...base,page:page as Page}:base;
+ return ['home','prayer','lessons','bible','map','mass','journey','resources','visit','prayers'].includes(page)?{...base,page:page as Page}:base;
 }
 export function wordsFor(locale:Locale,id:string){return prayerScript(({en:spoken,es:spanishSpoken,pl:polishSpoken,tl:tagalogSpoken})[locale][id]);}
 const aliases:Record<string,string>={

diff --git a/apps/at-the-table/src/prayer/PrayerHub.tsx b/apps/at-the-table/src/prayer/PrayerHub.tsx
@@ -1,0 +1,7 @@
+import {useLanguage} from '../Language';
+import {Illustration} from '../Illustration';
+import type {Devotion} from './Prayer';
+import './prayer.css';
+export default function PrayerHub({onOpen}:{onOpen:(devotion:Devotion)=>void}){
+ const {t}=useLanguage();return <section className="prayer-hub"><div className="prayer-hub-heading"><div><p className="eyebrow">{t('PRAY · LET FAITH BECOME A MOMENT OF STILLNESS')}</p><h2>{t('A quiet space for prayer.')}</h2><p>{t('Pray with sacred video, spoken words, and beads that guide your place.')}</p></div></div><div className="prayer-hub-grid"><button className="prayer-hub-card" onClick={()=>onOpen('rosary')}><Illustration kind="hands" alt={t('Hands joined in prayer')}/><div><p className="eyebrow">{t('ROSARY · FOUR SETS OF MYSTERIES')}</p><h3>{t('Walk with Mary.')}</h3><p>{t('Meditate on the life of Christ, one prayer and one bead at a time.')}</p><strong>{t('Pray the Rosary')} →</strong></div></button><button className="prayer-hub-card" onClick={()=>onOpen('chaplet')}><Illustration kind="heart" alt={t('A heart as a sign of mercy')}/><div><p className="eyebrow">{t('DIVINE MERCY CHAPLET')}</p><h3>{t('Jesus, I trust in You.')}</h3><p>{t('Bring your intentions into a guided prayer of trust in God’s mercy.')}</p><strong>{t('Pray Divine Mercy')} →</strong></div></button></div></section>
+}

diff --git a/apps/at-the-table/README.md b/apps/at-the-table/README.md
@@ -1,6 +1,6 @@
 # At the Table: An OCIA Companion
 
-An adult OCIA learning hub with separate pages for the Catholic Mass, the Books of the Bible, and the OCIA journey. It shares this repository and deployment with Mass Adventure and Rosary.
+An adult OCIA companion with separate Learn and Pray areas. Learn contains the Catholic Mass, the Books of the Bible, and the OCIA journey; Pray contains the integrated Rosary, Divine Mercy Chaplet, mysteries, and prayer library. It shares this repository and deployment with Mass Adventure and Rosary.
 
 ## Run
 
@@ -131,3 +131,9 @@ Explored cards and four activity badges are stored locally under `ocia-bible-dis
 The user’s photographed book lists and summary handouts inspired the shelf structure and summary themes. Summaries are original adaptations, with Catholic additions and corrections rather than literal transcriptions. The handouts list 39 Old Testament books; this lesson includes the seven additional books in the Catholic canon and notes the fuller Esther and Daniel texts. Sources: [Catechism §§120–130](https://www.vatican.va/content/catechism/en/part_one/section_one/chapter_two/article_3/iv_the_canon_of_scripture.html) and [USCCB book introductions](https://www.usccb.org/offices/new-american-bible/books-bible). Book-family labels are teaching aids, not a chronological ordering or a judgment of importance.
 
 Run `npm run test:bible` against the combined preview (`TEST_URL` may override the default port 5190). It covers all 73 summaries, the canon, navigation, deep links, four games, saved progress, storage failures, phone/tablet/desktop layouts, light/dark themes, Chromium/WebKit, and automated WCAG checks.
+
+## Unified Learn and Pray landing page
+
+The homepage separates learning paths from prayer devotions. `#prayer/rosary`, `#prayer/chaplet`, `#prayer/mysteries`, and `#prayer/prayers` open the prayer experience within At the Table. The shared navigation remains available; a full-screen link optionally opens the standalone prayer app. The existing Rosary app is embedded from the same origin with `?embedded=1`, hiding its duplicate sidebar/footer while preserving its videos, text, beads, male/female narration, speed controls, and saved position. Changing devotion or leaving the prayer section removes the old frame and its media. Prayer progress uses the same existing `rosary-web:*` storage as the standalone app. There is no copied prayer content or additional backend.
+
+The shared header’s measured height determines the prayer frame’s available viewport space. On short phones, prayer text can scroll inside its reading panel while the meditation video and beads remain visible. Prayer material is currently English; the surrounding landing and navigation are available in the existing four languages. Run `npm run test:prayer` for integration tests in Chromium and WebKit, both themes, and four viewport sizes.
